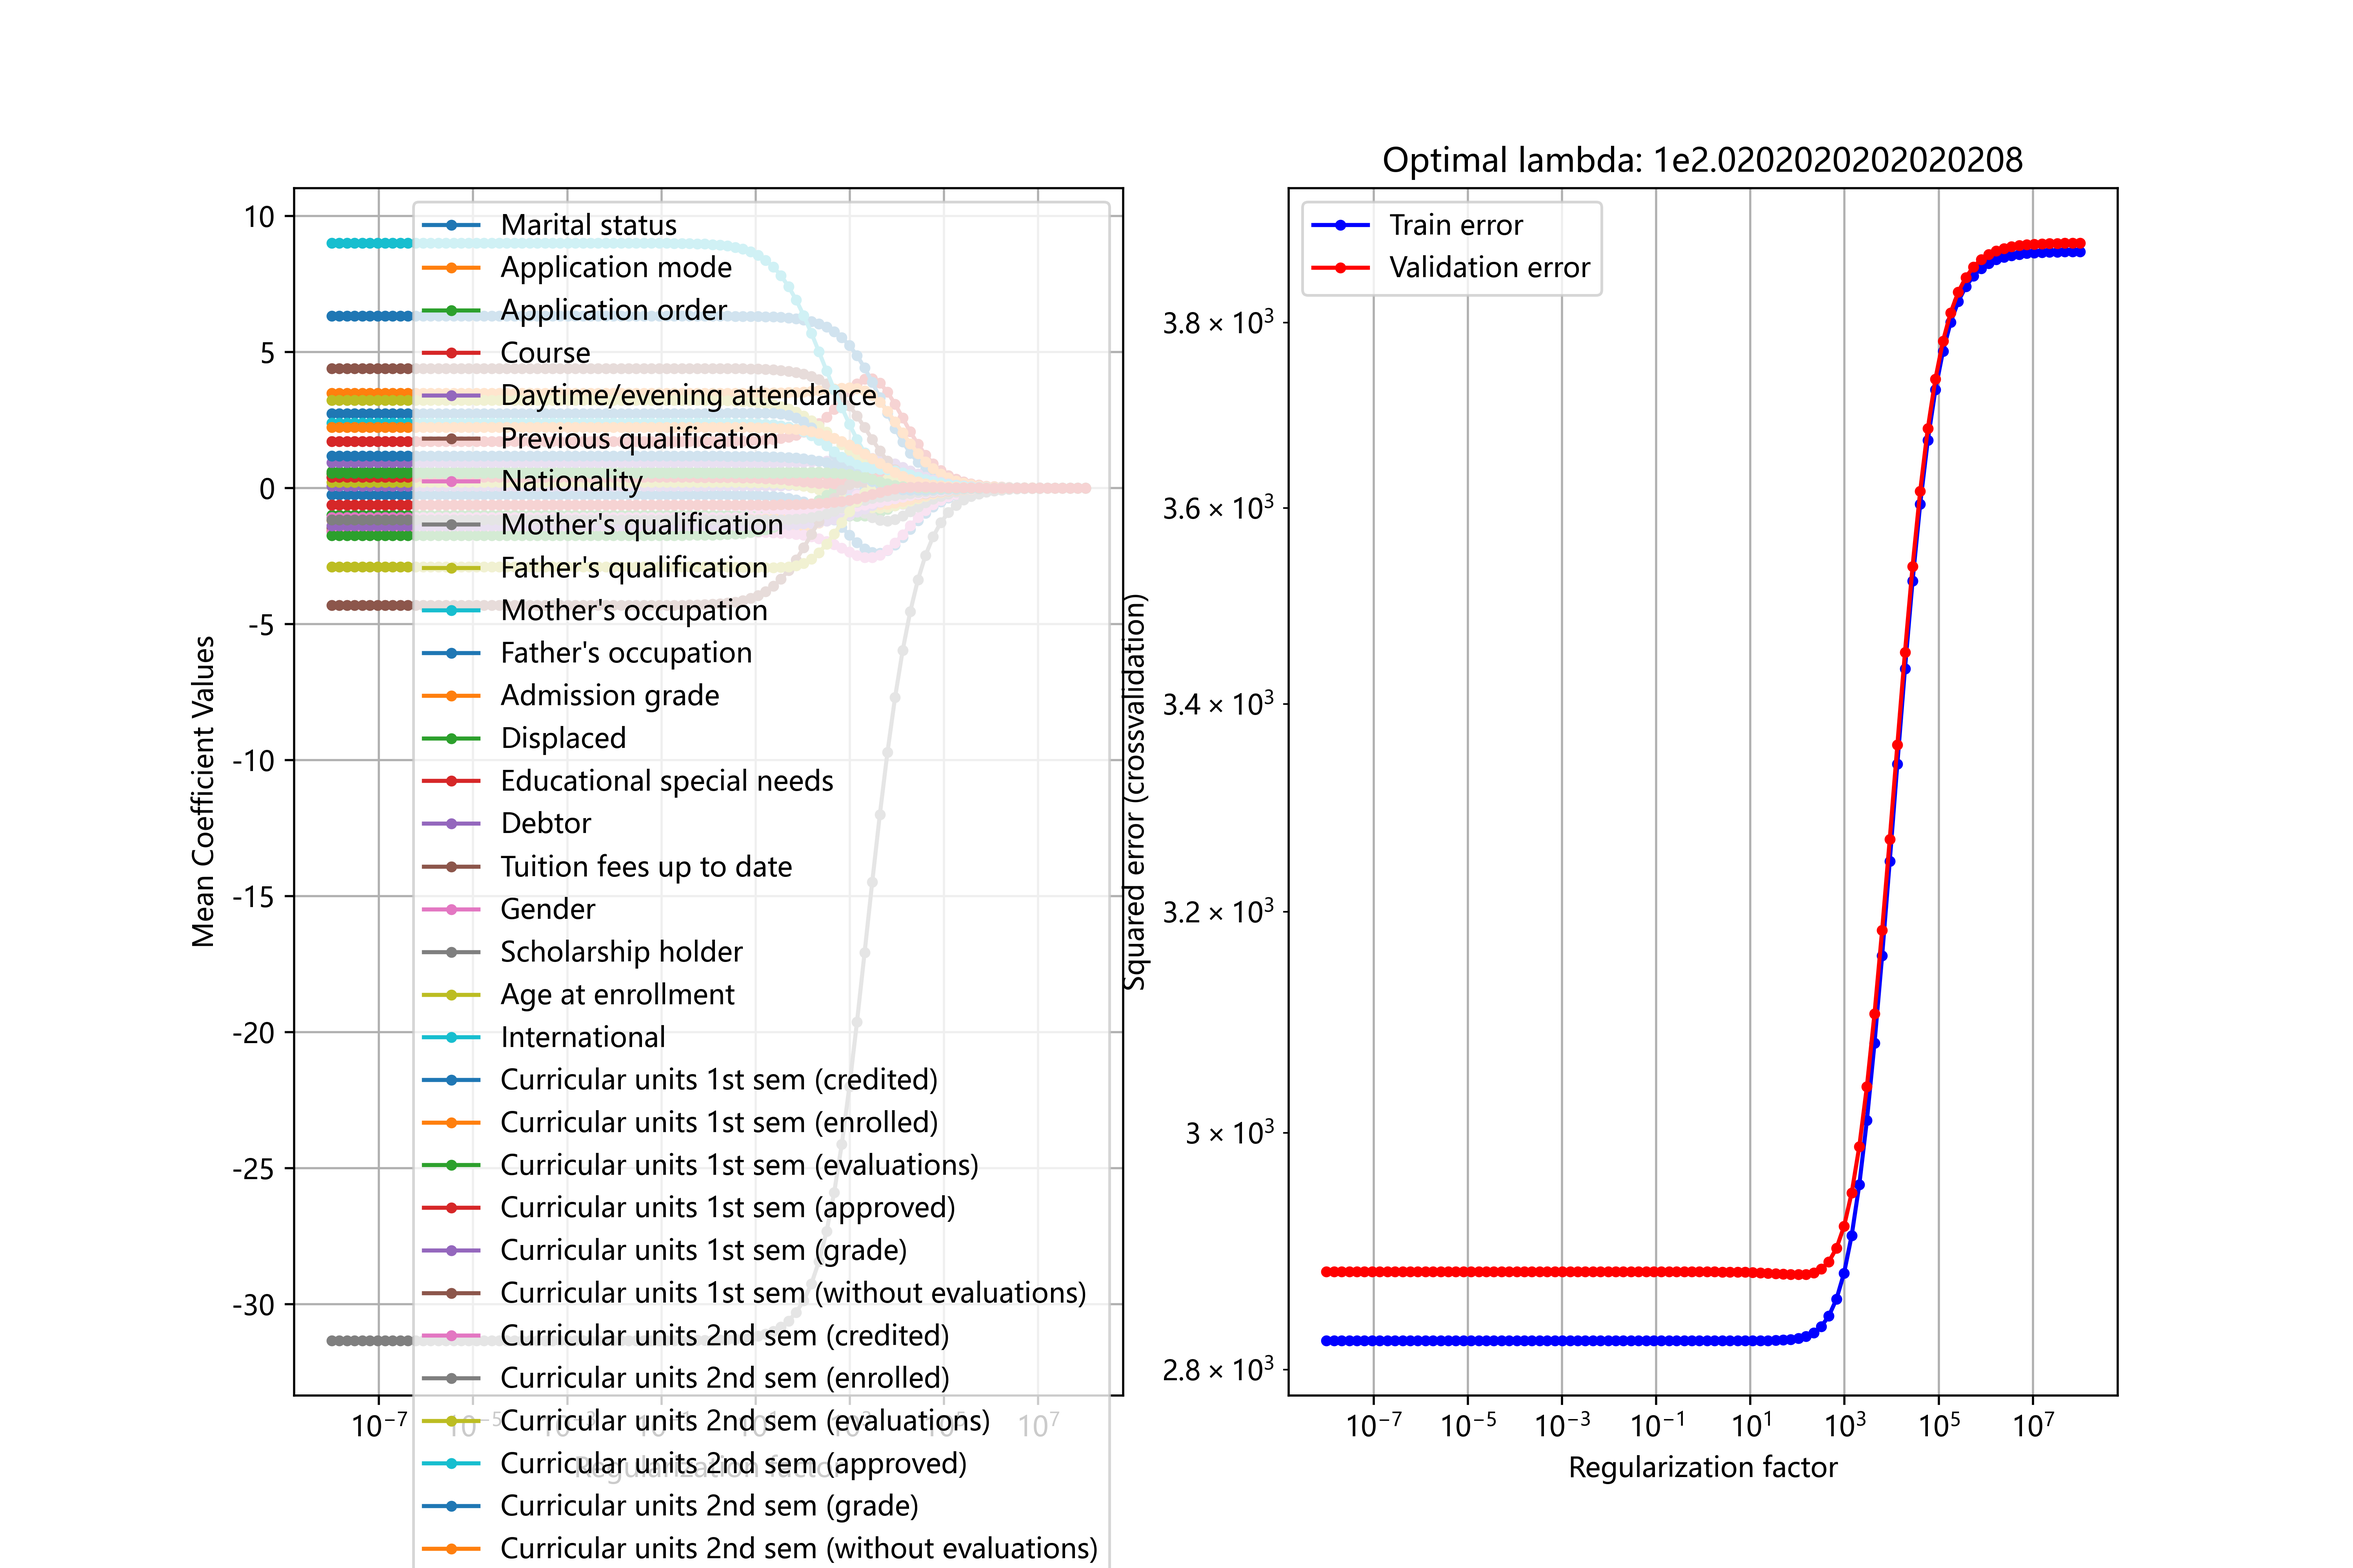
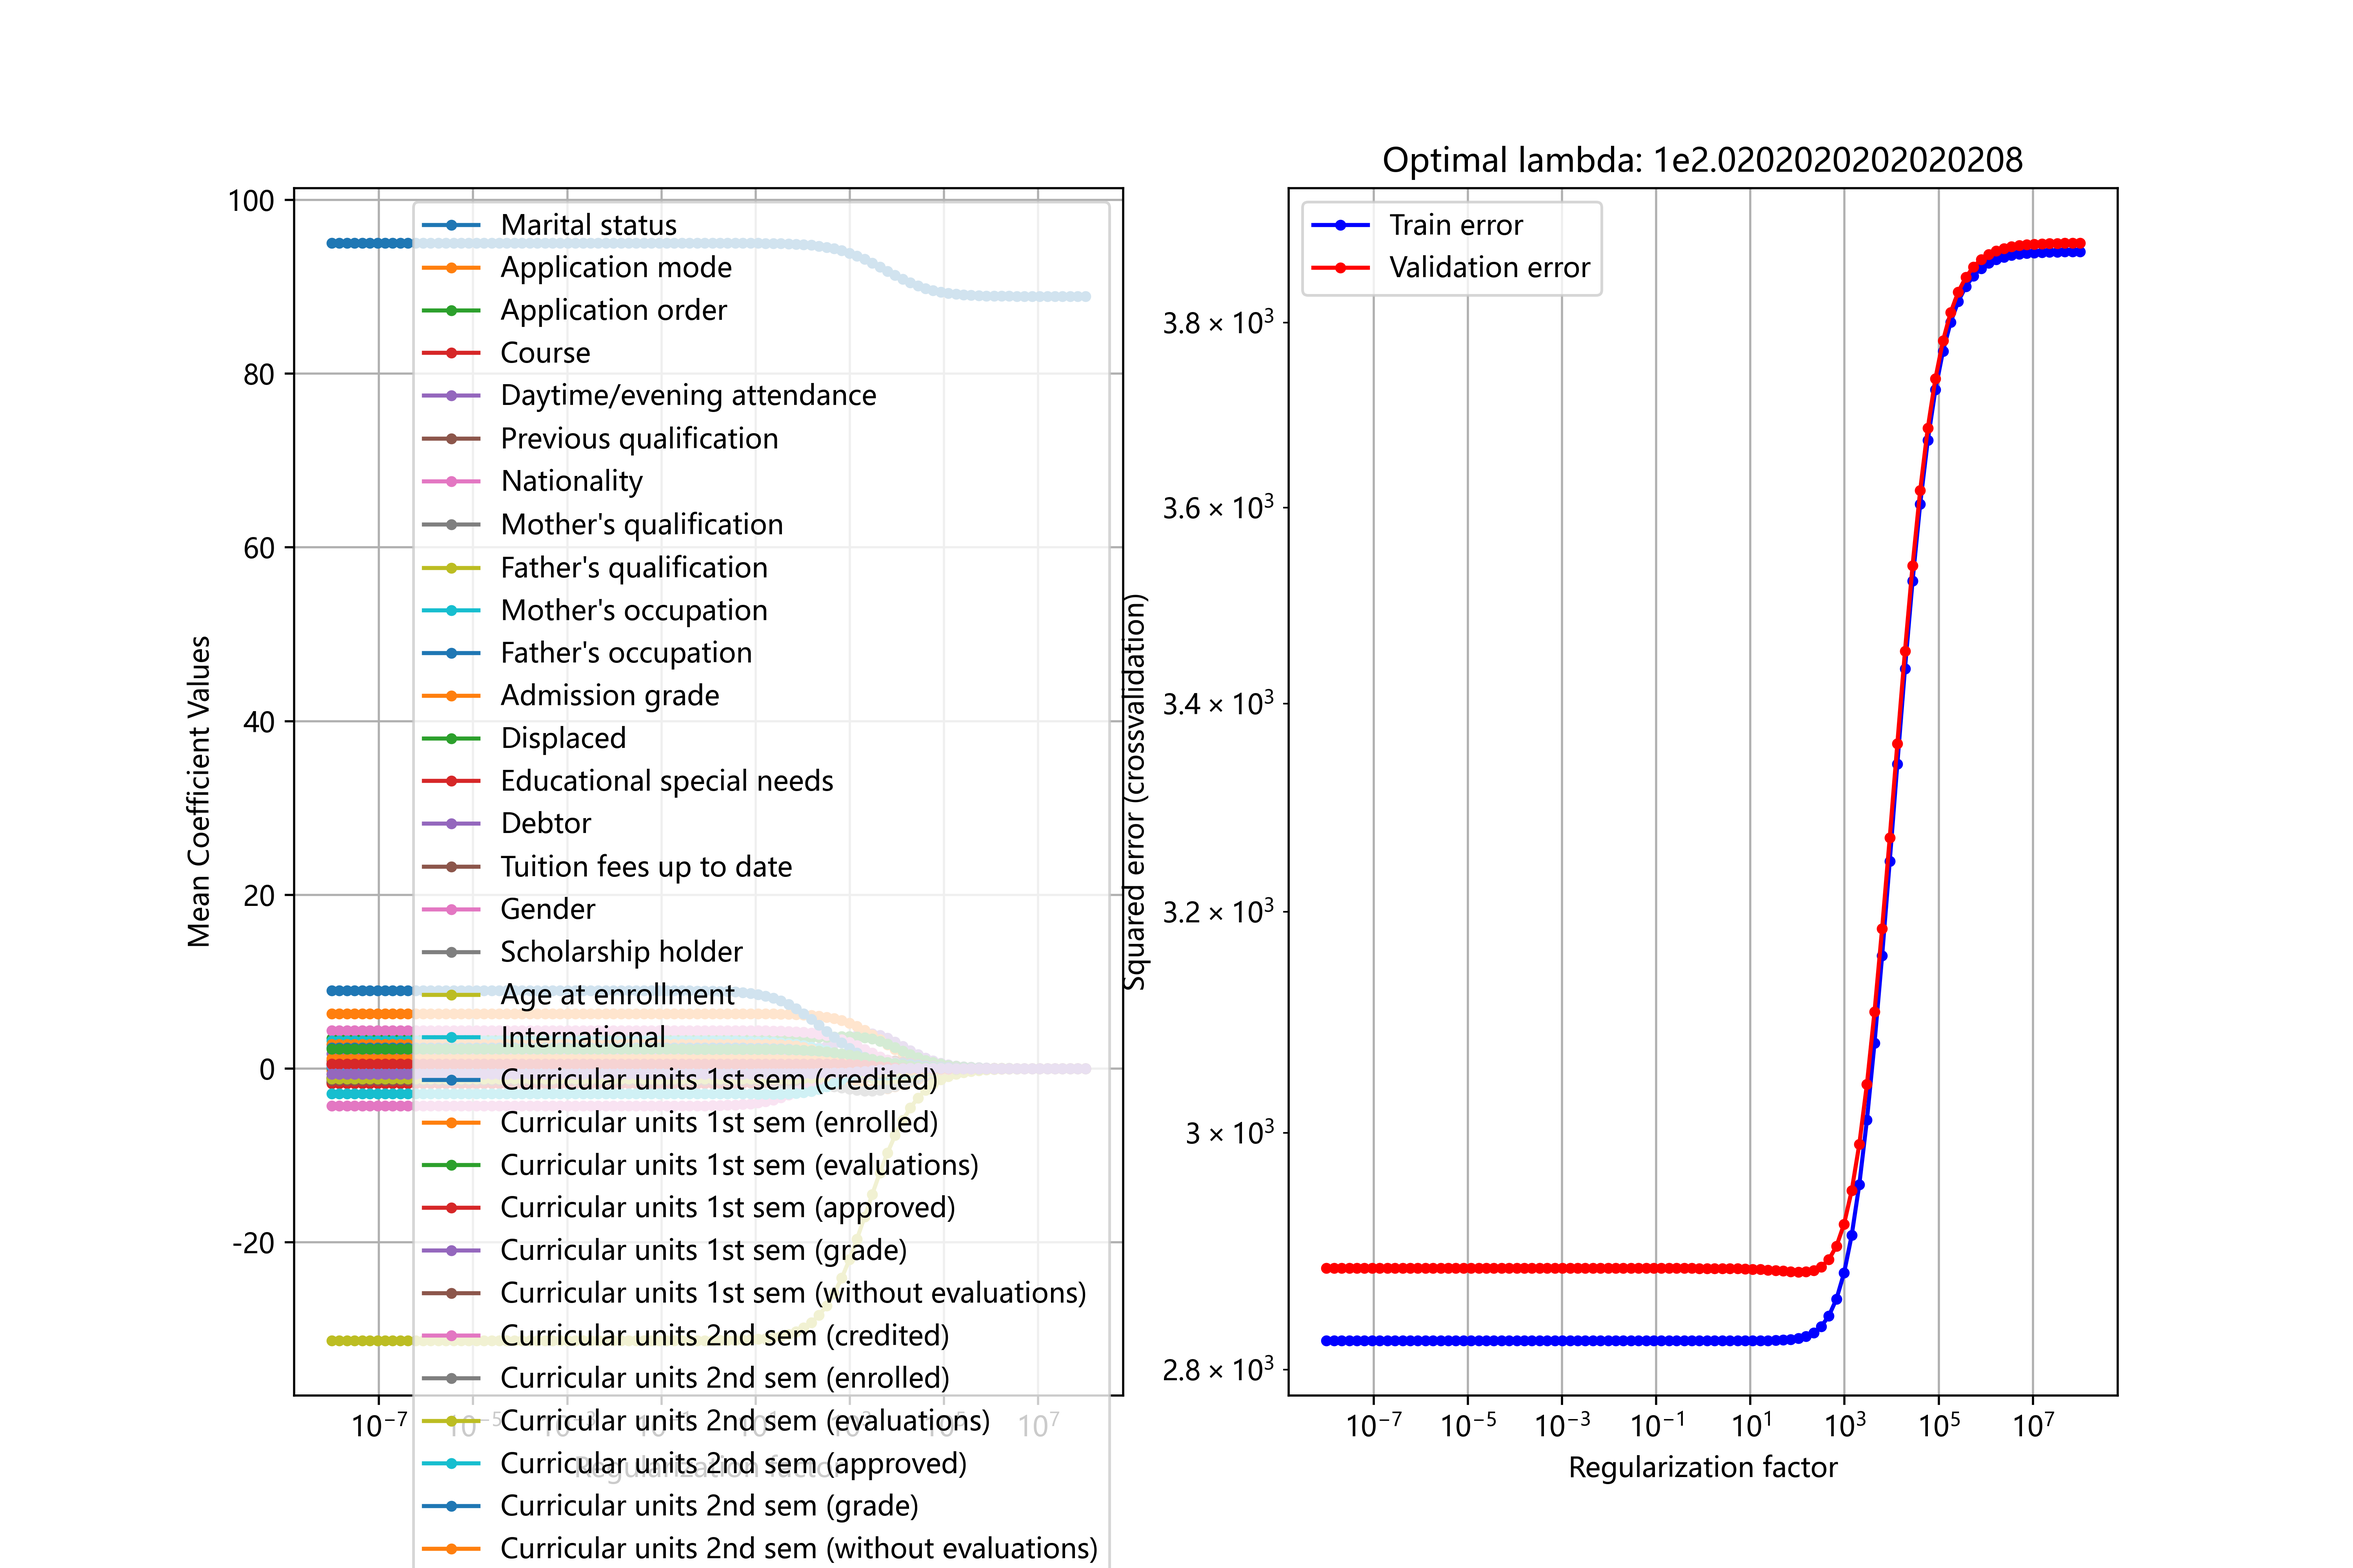
up

diff --git a/regression_a.py b/regression_a.py
@@ -64,7 +64,7 @@ opt_val_err, opt_lambda, mean_w_vs_lambda, train_err_vs_lambda, test_err_vs_lamb
 # Display the results for the last cross-validation fold
 figure(K, figsize=(12,8))
 subplot(1,2,1)
-semilogx(lambdas,mean_w_vs_lambda.T[:,1:],'.-') # Don't plot the bias term
+semilogx(lambdas,mean_w_vs_lambda.T[:,:],'.-') # Don't plot the bias term
 xlabel('Regularization factor')
 ylabel('Mean Coefficient Values')
 grid()
